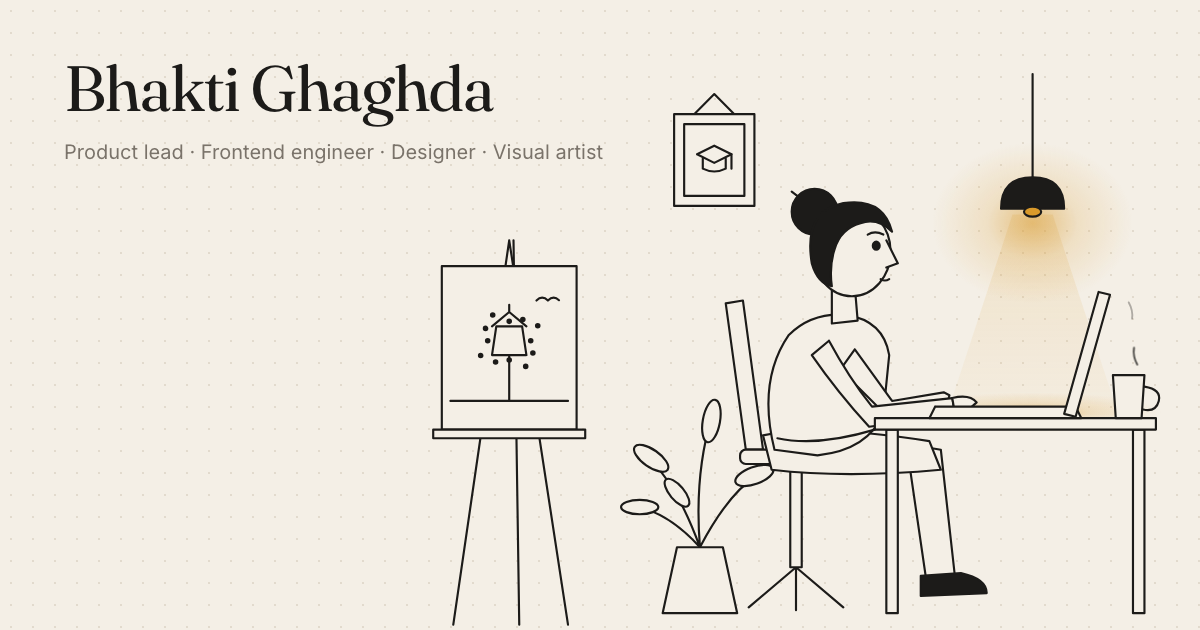
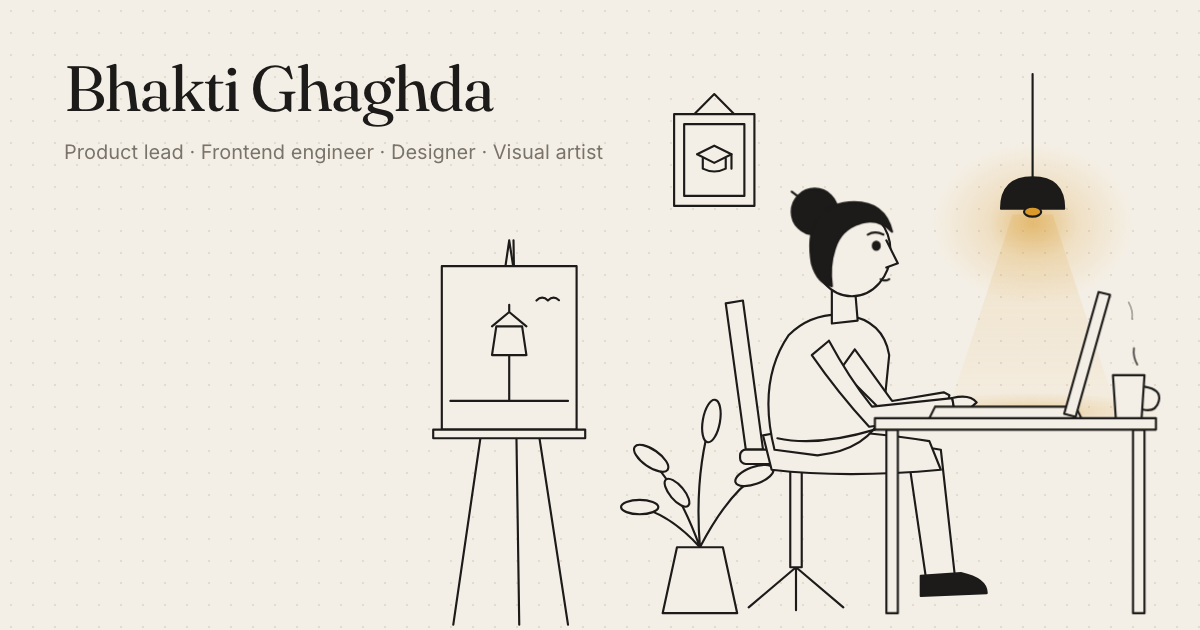
Plant turns green and sways on hover; plain lantern painting on the easel

Changed region(s): [[0.74, 0.6333, 0.9558, 0.9651], [0.925, 0.573, 0.9558, 0.6032]]

diff --git a/src/components/girl.svg.js b/src/components/girl.svg.js
@@ -12,13 +12,6 @@ export const MUG = { x: 367, y: 206 };
 export const EYE = { x: 190, y: 120 };
 export const LAMP = { x: 300, y: 94 };
 
-// Ink dots around the lantern in the easel painting (a nod to pointillism).
-const halo = Array.from({ length: 12 }, (_, i) => {
-  const a = (i / 12) * Math.PI * 2;
-  const r = 15 + (i % 3) * 4;
-  return { t: 'circle', a: { cx: (-65 + Math.cos(a) * r).toFixed(1), cy: (186 + Math.sin(a) * r * 0.9).toFixed(1), r: 1.2, class: 'obj-art' }, fill: 'ink', line: true, w: 0.3 };
-});
-
 const S = [
   // easel (Art)
   { t: 'path', a: { d: 'M-62 116 L-58 384', class: 'obj-art' }, line: true, fill: 'none' },
@@ -29,7 +22,6 @@ const S = [
   { t: 'path', a: { d: 'M-74 176 L-56 176 L-53 196 L-77 196 Z', class: 'obj-art' }, line: true },
   { t: 'path', a: { d: 'M-77 176 L-65 166 L-53 176 M-65 166 L-65 161', class: 'obj-art' }, line: true, fill: 'none' },
   { t: 'path', a: { d: 'M-46 158 q4 -4 8 0 q4 -4 8 0', class: 'obj-art' }, line: true, fill: 'none' },
-  ...halo,
 
   // framed diploma on the wall (About)
   { t: 'path', a: { d: 'M64 28 L78 14 L92 28', class: 'obj-about' }, line: true, fill: 'none' },
@@ -38,13 +30,16 @@ const S = [
   { t: 'path', a: { d: 'M66 56 L78 50 L90 56 L78 62 Z', class: 'obj-about' }, line: true },
   { t: 'path', a: { d: 'M70 59 L70 66 Q78 70 86 66 L86 59 M90 56 L90 66', class: 'obj-about' }, line: true, fill: 'none' },
 
-  // floor plant
-  { t: 'path', a: { d: 'M68 330 Q52 286 32 268 M68 330 Q64 280 76 240 M68 330 Q88 292 108 280 M68 330 Q46 306 24 302', class: 'plant' }, line: true, fill: 'none' },
-  { t: 'ellipse', a: { cx: 34, cy: 268, rx: 14, ry: 6, transform: 'rotate(35 34 268)', class: 'plant' }, line: true },
-  { t: 'ellipse', a: { cx: 76, cy: 242, rx: 6, ry: 15, transform: 'rotate(10 76 242)', class: 'plant' }, line: true },
-  { t: 'ellipse', a: { cx: 106, cy: 280, rx: 14, ry: 6, transform: 'rotate(-20 106 280)', class: 'plant' }, line: true },
-  { t: 'ellipse', a: { cx: 26, cy: 302, rx: 13, ry: 5, class: 'plant' }, line: true },
-  { t: 'ellipse', a: { cx: 52, cy: 292, rx: 5, ry: 12, transform: 'rotate(-40 52 292)', class: 'plant' }, line: true },
+  // floor plant: turns green and sways from the base of its stems on hover (grouped so it moves as one)
+  { group: 'plant', children: [
+    { t: 'rect', a: { x: 10, y: 226, width: 112, height: 104, class: 'plant-hit' }, hit: true },
+    { t: 'path', a: { d: 'M68 330 Q52 286 32 268 M68 330 Q64 280 76 240 M68 330 Q88 292 108 280 M68 330 Q46 306 24 302' }, line: true, fill: 'none' },
+    { t: 'ellipse', a: { cx: 34, cy: 268, rx: 14, ry: 6, transform: 'rotate(35 34 268)' }, line: true },
+    { t: 'ellipse', a: { cx: 76, cy: 242, rx: 6, ry: 15, transform: 'rotate(10 76 242)' }, line: true },
+    { t: 'ellipse', a: { cx: 106, cy: 280, rx: 14, ry: 6, transform: 'rotate(-20 106 280)' }, line: true },
+    { t: 'ellipse', a: { cx: 26, cy: 302, rx: 13, ry: 5 }, line: true },
+    { t: 'ellipse', a: { cx: 52, cy: 292, rx: 5, ry: 12, transform: 'rotate(-40 52 292)' }, line: true },
+  ] },
   { t: 'path', a: { d: 'M42 376 L52 330 L84 330 L94 376 Z' }, line: true },
 
   // chair
@@ -96,12 +91,17 @@ const S = [
 
 const attrs = (a) => Object.entries(a).map(([k, v]) => `${k}="${v}"`).join(' ');
 
-export const LINE_MARKUP = S.filter((s) => s.line)
-  .map((s, i) => {
-    const fill = s.fill === 'none' ? 'none' : s.fill === 'ink' ? 'currentColor' : 'var(--paper)';
-    const w = s.w ? ` stroke-width="${s.w}"` : '';
-    return `<${s.t} ${attrs(s.a)} fill="${fill}"${w} pathLength="1" style="--d:${Math.round(i * 0.7)}"/>`;
-  })
+const shape = (s, i) => {
+  if (s.hit) return `<${s.t} ${attrs(s.a)} fill="transparent" stroke="none"/>`;
+  const fill = s.fill === 'none' ? 'none' : s.fill === 'ink' ? 'currentColor' : 'var(--paper)';
+  const w = s.w ? ` stroke-width="${s.w}"` : '';
+  return `<${s.t} ${attrs(s.a)} fill="${fill}"${w} pathLength="1" style="--d:${Math.round(i * 0.7)}"/>`;
+};
+
+export const LINE_MARKUP = S.filter((s) => s.line || s.group)
+  .map((s, i) =>
+    s.group ? `<g class="${s.group}">${s.children.map((c, j) => shape(c, i + j)).join('')}</g>` : shape(s, i)
+  )
   .join('');
 
 // Warm light, rendered behind the drawing so paper-filled shapes sit on top.

diff --git a/src/styles.css b/src/styles.css
@@ -128,6 +128,13 @@ button { font: inherit; color: inherit; }
   100% { stroke-dashoffset: -1; opacity: 0; transform: translateY(-10px); }
 }
 
+/* plant: on hover it turns green and sways from the base of its stems */
+.illo .plant { transform-box: fill-box; transform-origin: 50% 100%; }
+.illo .plant [pathLength] { transition: color 0.4s ease, fill 0.4s ease; }
+.illo .plant:hover { color: var(--viridian); animation: sway 2.6s ease-in-out infinite; }
+.illo .plant:hover ellipse { fill: color-mix(in srgb, var(--viridian) 16%, var(--paper)); }
+@keyframes sway { 0%, 100% { transform: rotate(0deg); } 30% { transform: rotate(2.2deg); } 70% { transform: rotate(-1.8deg); } }
+
 /* hovered / open object turns vermilion */
 .scene[data-hover='tech'] .obj-tech,
 .scene[data-hover='art'] .obj-art,
@@ -181,6 +188,7 @@ button { font: inherit; color: inherit; }
 @media (prefers-reduced-motion: reduce) {
   .illo [pathLength], .illo [pathLength][fill='currentColor'], .illo [pathLength].eye { animation: none; stroke-dashoffset: 0; fill-opacity: 1; }
   .illo .steam { display: none; }
+  .illo .plant { animation: none; }
   .illo-lamp.swing .lamp-swing, .illo-lamp .bulb { animation: none !important; }
   .desk, .panel, .scrim { transition: none !important; }
 }
